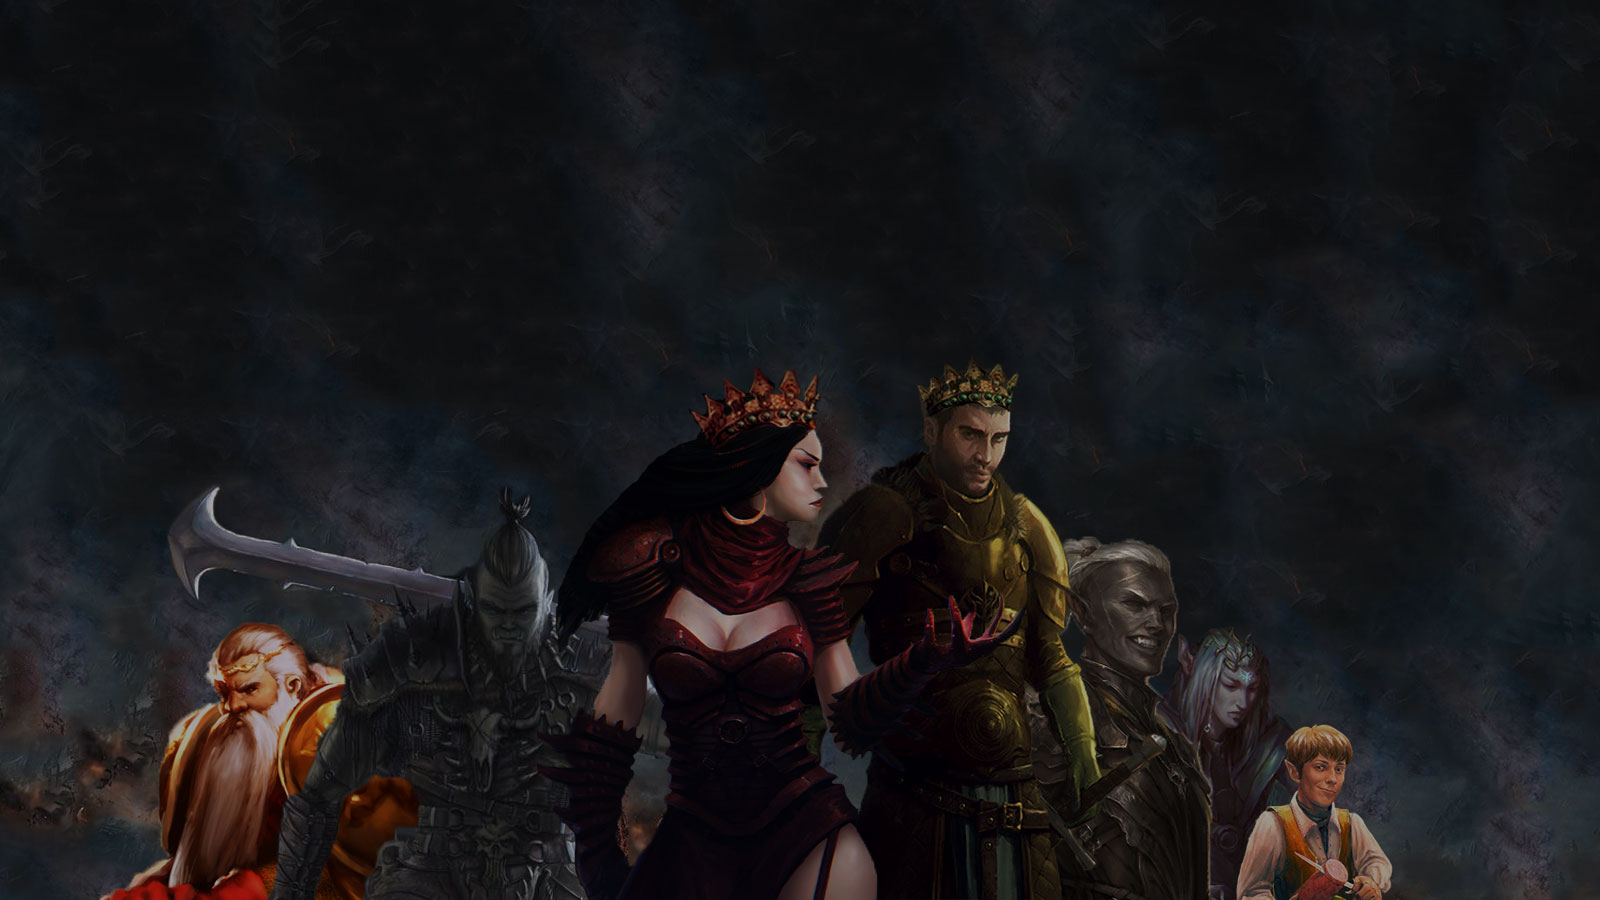
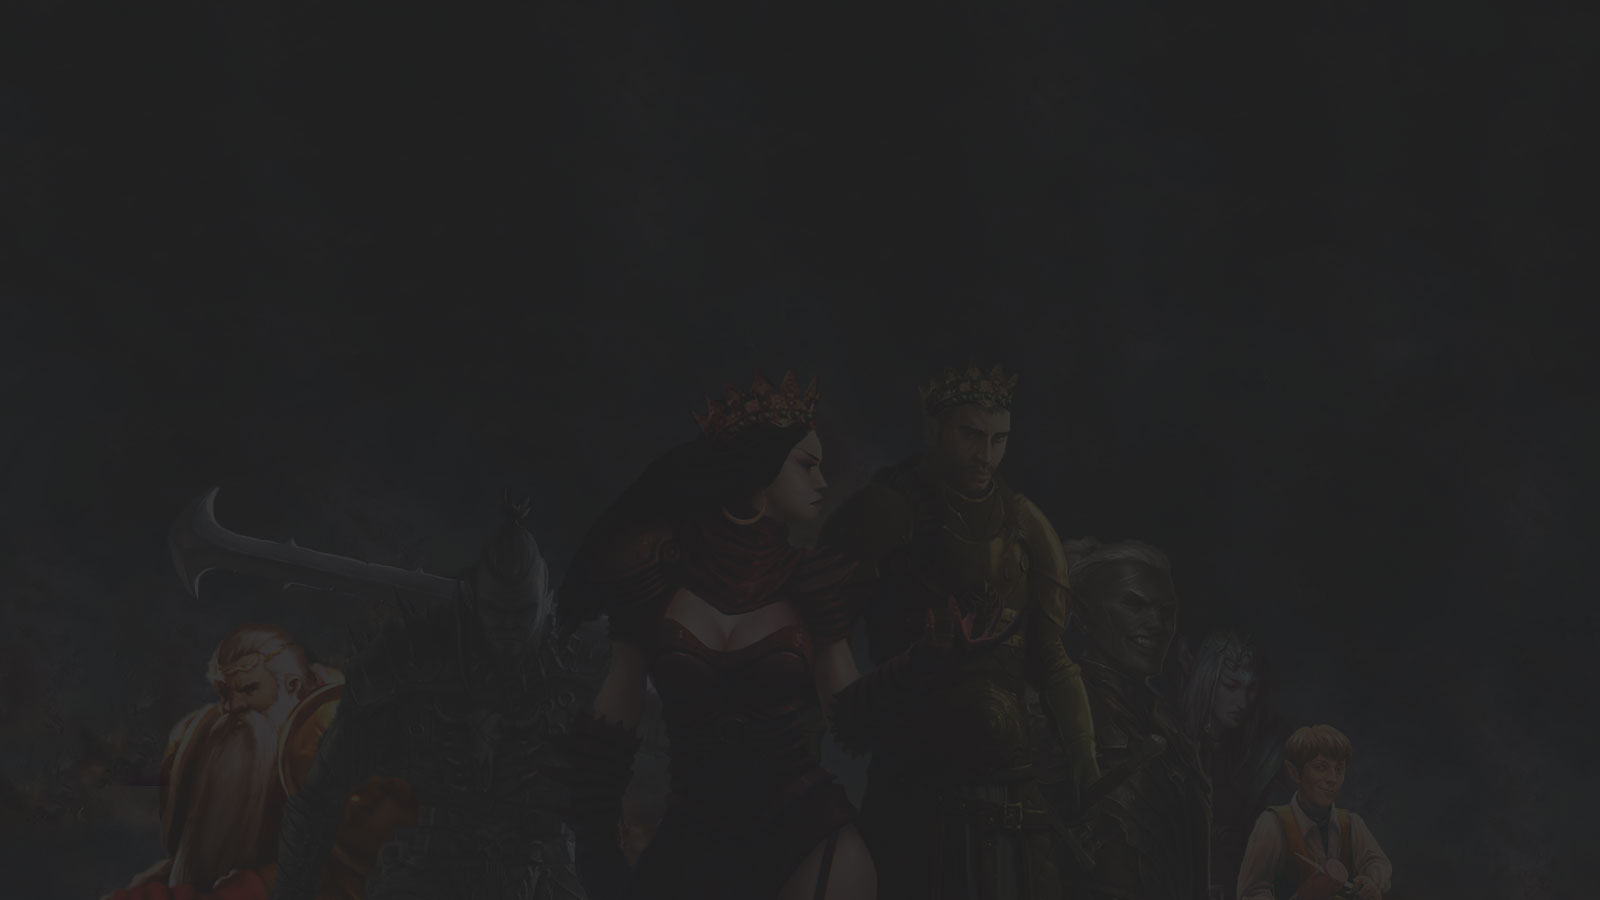
Set up consistent styles

diff --git a/pages/battlegrid.js b/pages/battlegrid.js
@@ -12,7 +12,7 @@ const Battlegrid = () => {
 			<section id="battlegrid" className="page-content">
 				<div id="battlegrid-message" >
 					<h1>Battle Grid</h1>
-					<p>Here a grid for combat scenarios that uses a server to updates in real time on every browser looking at it. Note however that this feature is only functions correctly on desktop sized screens does not work with touch screen technology. Screens under 1000px wide will see the battlegrid faded out and disabled to interaction.
+					<p>Here is a grid for combat scenarios that uses a server to update in real time on every browser looking at it with. Note however that this feature is only functions correctly on desktop sized screens does not work with touch screen technology. Screens under 1000px wide will see the battlegrid faded out and disabled to interaction.
 						<br/><br/>
 						(The battlegrid runs on a server you may need to give it a few moments to boot up)
 					</p>

diff --git a/styles/generalStyles.scss b/styles/generalStyles.scss
@@ -4,8 +4,6 @@
 
 body {
 	background: #212121;
-	font-size:22px;
-	line-height: 32px;
 	color: #ffffff;
 	margin: 0;
 	padding: 0;
@@ -18,6 +16,12 @@ body {
 }
 
 #mainContainer{
+  background-image: url("../public/content/images/montage-about.jpg"); /* The image used */
+  background-position: center; /* Center the image */
+  background-repeat: no-repeat; /* Do not repeat the image */
+  background-size: cover; /* Resize the background image to cover the entire container */
+  height: 100%;
+  flex: 1;
   min-height: calc(100vh - 158px);
   height: 100%;
   display: flex;
@@ -52,13 +56,13 @@ h1 {
   }
 
   .page-content{
-    max-width: 900px;
+    max-width: 700px;
   }
 }
 
 @media all and (min-width : 1025px) {
   .page-content{
-    max-width: 1100px;
+    max-width: 800px;
 
   }
 }

diff --git a/pages/index.js b/pages/index.js
@@ -10,7 +10,10 @@ const Home = () => {
 			</Head>
 			<section id="homepage">
 				<div className="page-content" >
-					<h1 data-testid="index-text">Welcome to the world of<br/>Demian Arata</h1>
+					<h1 data-testid="index-text">Welcome to the world of Demian Arata</h1>
+					<p>A fantasy setting created for use with table top games like dungeons and dragons. Demain Arata is setting focusing on magical adventure with hints of political intrigue behind the scenes from countries which have their own unique culture, history and secrets which you can decide wheather or not to explore.</p>
+
+					<p>These facts and more about Demain Arata's fantasy setting can be found throughout the site.</p>
 				</div>
 			</section>
 		</React.Fragment>

diff --git a/styles/accreditationStyles.scss b/styles/accreditationStyles.scss
@@ -1,15 +1,13 @@
-
-#accreditation-page{
-  background-image: url("../public/content/images/montage-accreditation.jpg"); /* The image used */
-  background-position: center; /* Center the image */
-  background-repeat: no-repeat; /* Do not repeat the image */
-  background-size: cover; /* Resize the background image to cover the entire container */
-}
-
-
 #accreditation-box{
   display:flex;
-  flex-direction:column;
+  flex-direction:row;
+  flex-wrap: wrap;
   align-content: center;
   align-items: center;
+  .accreditation{
+    width: 33%;
+    justify-content: center;
+    align-items: center;
+    text-align: center;
+  }
 }

diff --git a/pages/accreditation.js b/pages/accreditation.js
@@ -10,7 +10,7 @@ const Accreditation = () => {
 			</Head>
 			<section id="accreditation-page" >
 				<div className="page-content" >
-					<h1 data-testid="about-text">Creative Commons art used for Demian Arata</h1>
+					<h1 data-testid="about-text">Creative Commons Art</h1>
 					<p>A special thanks to the artists who listed their art pieces as creative commons so that people like myself could use them for creative endeavours like my own to create this website about a fantasy world.</p>
 					<div id="accreditation-box">
 						<div className="accreditation">

diff --git a/styles/mapStyles.scss b/styles/mapStyles.scss
@@ -1,5 +1,5 @@
 #map-page{
-  background-image: url("../public/content/images/montage-map.jpg"); /* The image used */
+  background-image: url("../public/content/images/montage-about.jpg"); /* The image used */
   background-position: center; /* Center the image */
   background-repeat: no-repeat; /* Do not repeat the image */
   background-size: cover; /* Resize the background image to cover the entire container */

diff --git a/components/Navbar.js b/components/Navbar.js
@@ -26,7 +26,6 @@ const Navbar = () => {
 				<input type="checkbox" id="drop" />
 				<ul className="menu">
 					<li><Link href="/"><a className="nav-link">Home</a></Link></li>
-					<li><Link href="/about"><a className="nav-link">About</a></Link></li>
 					<li><Link href="/map"><a className="nav-link">Map</a></Link></li>
 					<li>	
 						<label htmlFor="drop-1" className="toggle">Countries +</label>

diff --git a/styles/navbarStyles.scss b/styles/navbarStyles.scss
@@ -1,5 +1,8 @@
 /* CSS Document */
-
+nav a{
+  font-size:22px;
+	line-height: 32px;
+}
 
 
 h3 {
@@ -241,6 +244,13 @@ li > a:only-child:after { content: ''; }
 
 	}
 
+}
+
+
+@media all and (min-width : 768px) {
+	nav ul {
+		margin-right:30px;
+	}
 }
 
 @media all and (max-width : 330px) {

diff --git a/styles/global.scss b/styles/global.scss
@@ -13,8 +13,6 @@
 @import "footerStyles.scss";
 
 //Specific page styles
-
-@import "aboutStyles.scss";
 @import "accreditationStyles.scss";
 @import "battlegridStyles.scss";
 @import "countryStyles.scss";

diff --git a/styles/countryStyles.scss b/styles/countryStyles.scss
@@ -78,7 +78,7 @@
     display: flex;
     .image {
       > div img{
-        height: 5em;
+        height: 7em;
       }
     }
   }
